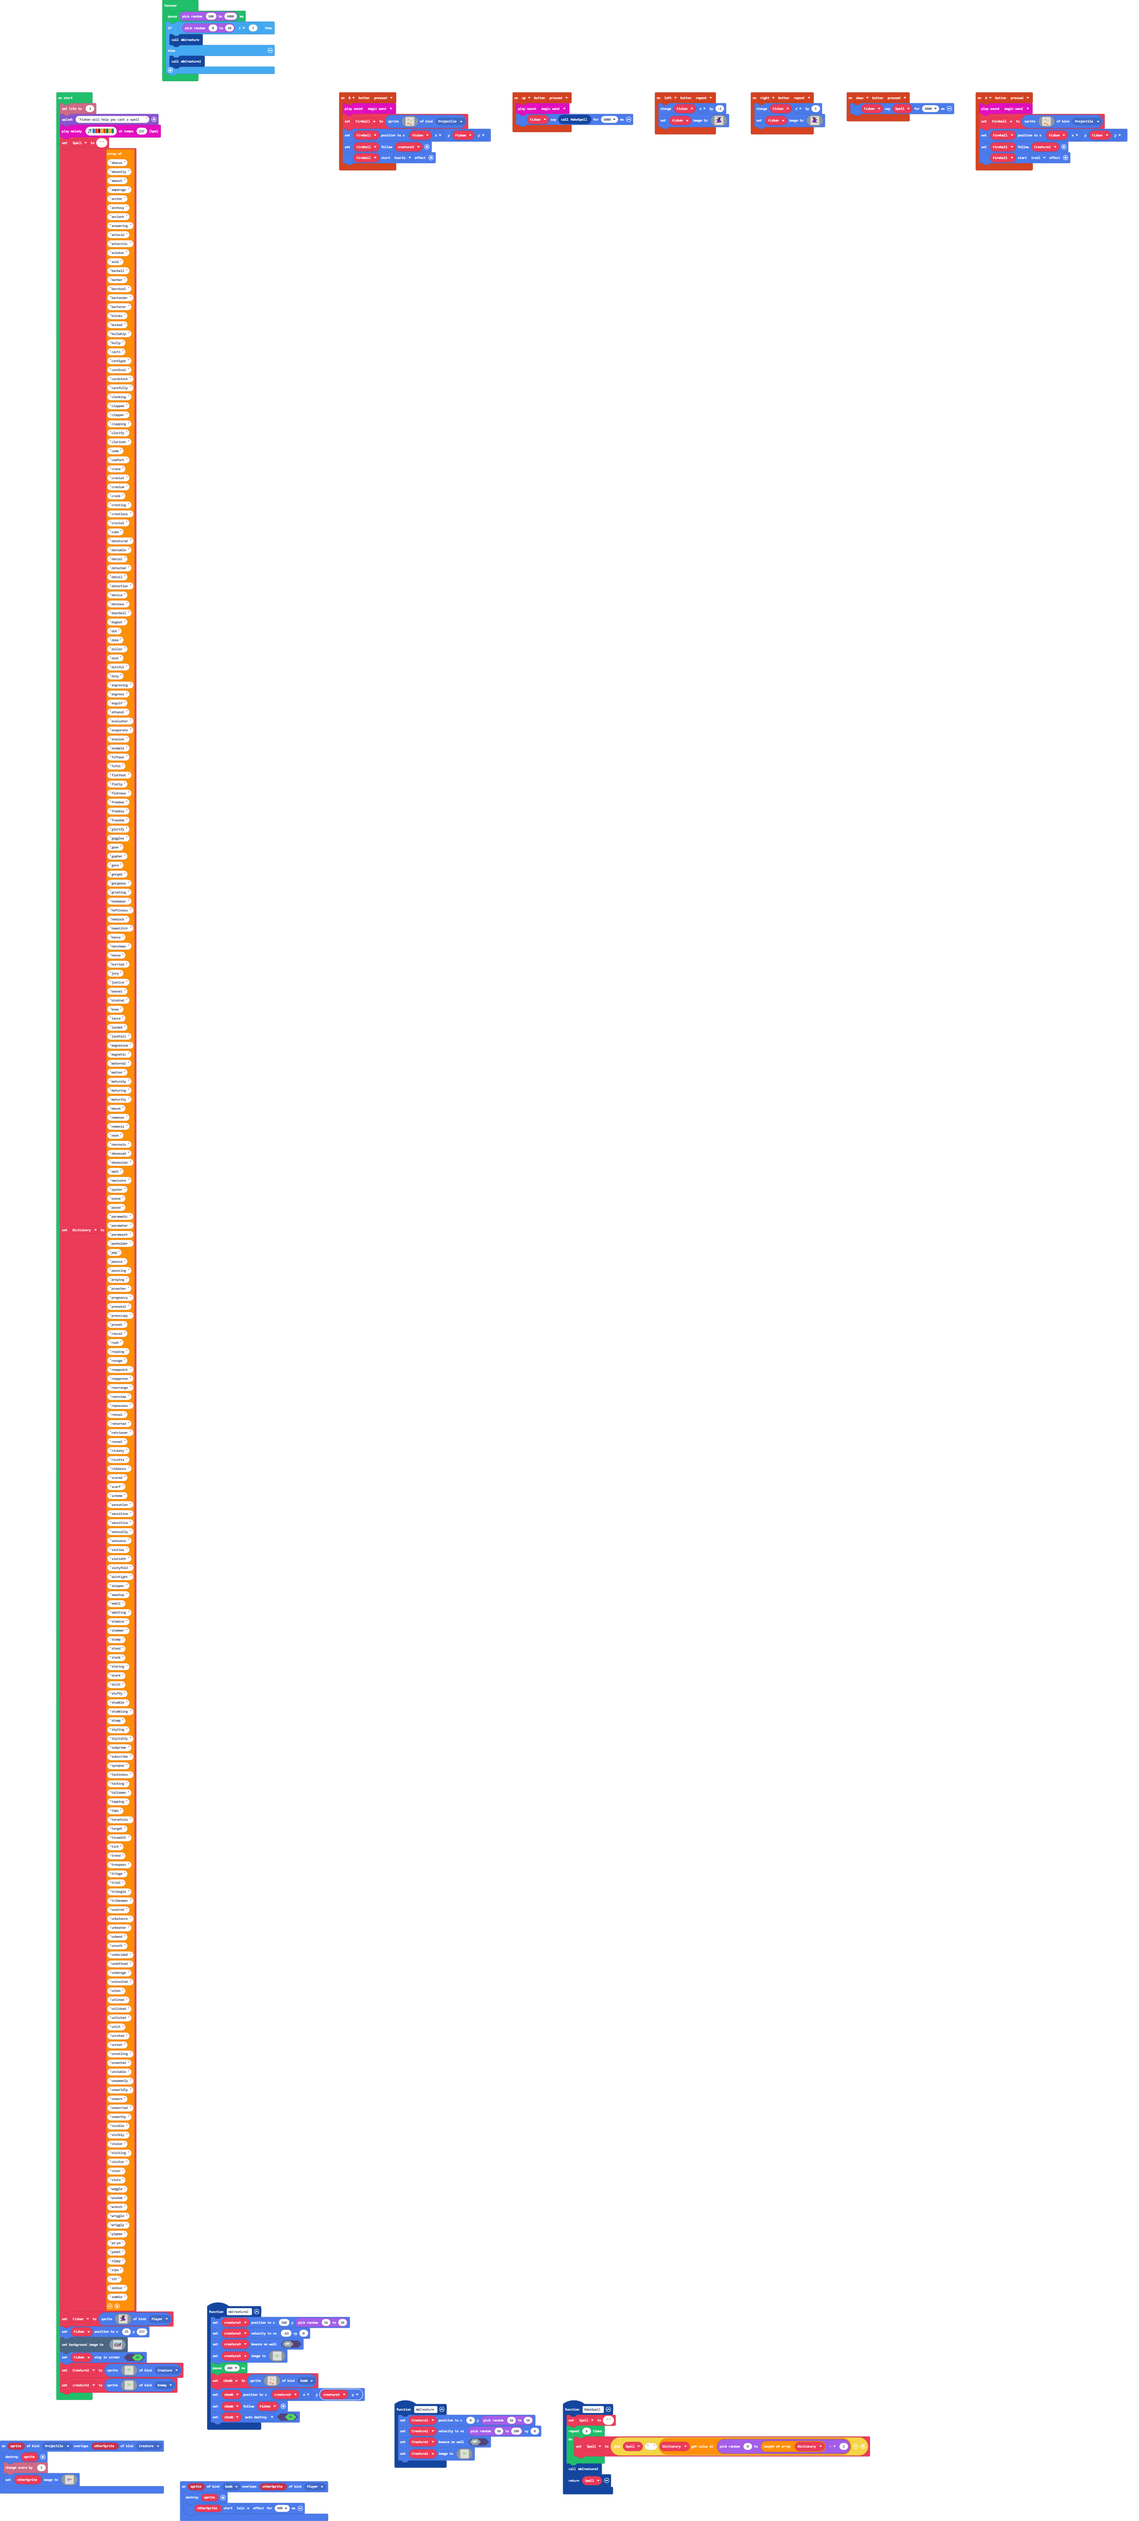
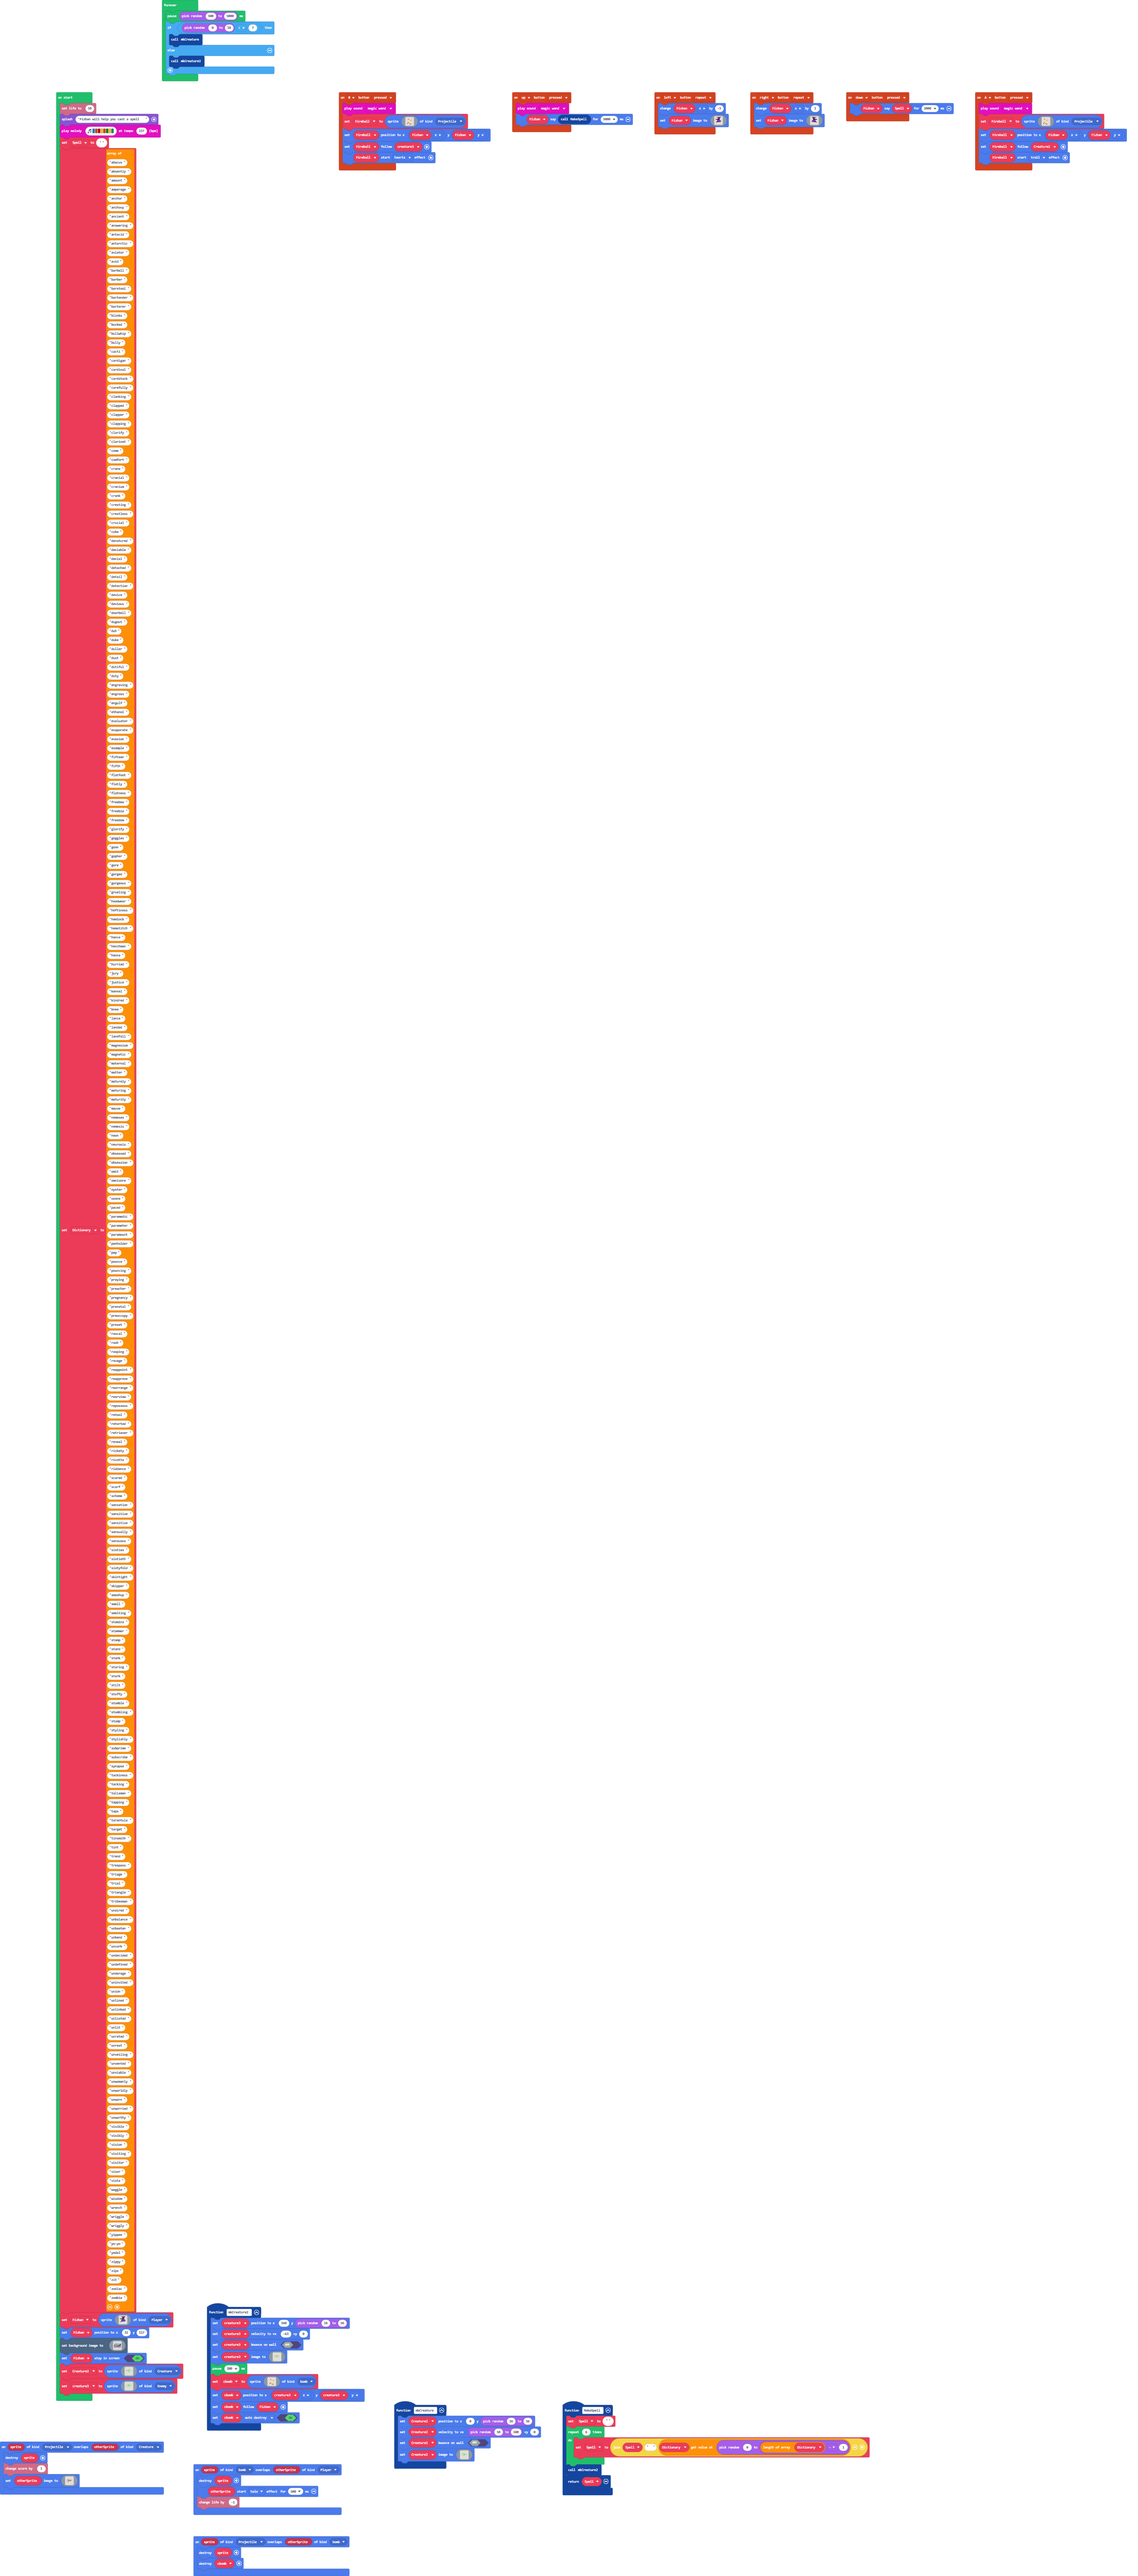
Update main.blocks, main.ts

diff --git a/main.ts b/main.ts
@@ -41,6 +41,7 @@ controller.right.onEvent(ControllerButtonEvent.Repeated, function () {
 sprites.onOverlap(SpriteKind.bomb, SpriteKind.Player, function (sprite, otherSprite) {
     sprite.destroy()
     otherSprite.startEffect(effects.halo, 500)
+    info.changeLifeBy(-1)
 })
 controller.down.onEvent(ControllerButtonEvent.Pressed, function () {
     Fizban.say(Spell, 2000)
@@ -73,6 +74,10 @@ function mkCreature2 () {
     cbomb.follow(Fizban)
     cbomb.setFlag(SpriteFlag.AutoDestroy, true)
 }
+sprites.onOverlap(SpriteKind.Projectile, SpriteKind.bomb, function (sprite, otherSprite) {
+    sprite.destroy()
+    cbomb.destroy()
+})
 sprites.onOverlap(SpriteKind.Projectile, SpriteKind.Creature, function (sprite, otherSprite) {
     sprite.destroy()
     info.changeScoreBy(1)
@@ -89,7 +94,7 @@ let Creature2: Sprite = null
 let Fizban: Sprite = null
 let Dictionary: string[] = []
 let Spell = ""
-info.setLife(3)
+info.setLife(10)
 game.splash("Fizban will help you cast a spell")
 music.playMelody("E B C5 A B G A F ", 237)
 Spell = ""
